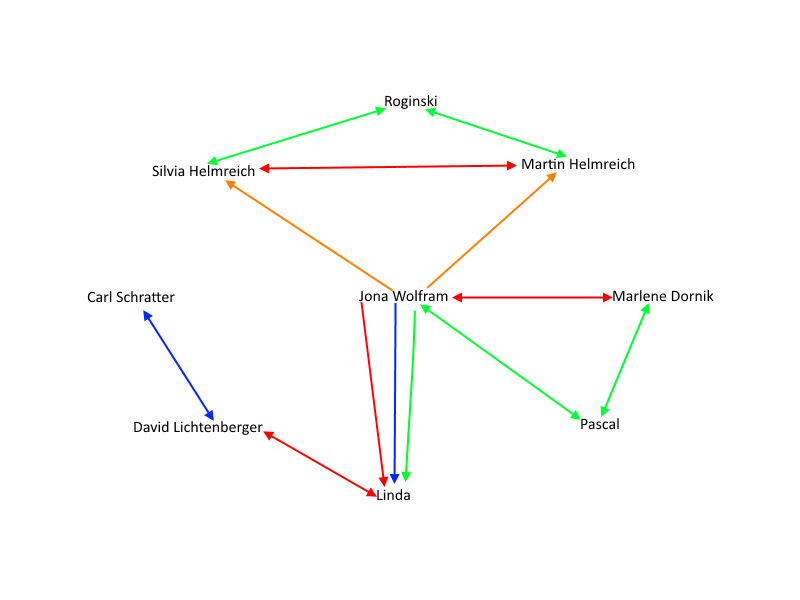
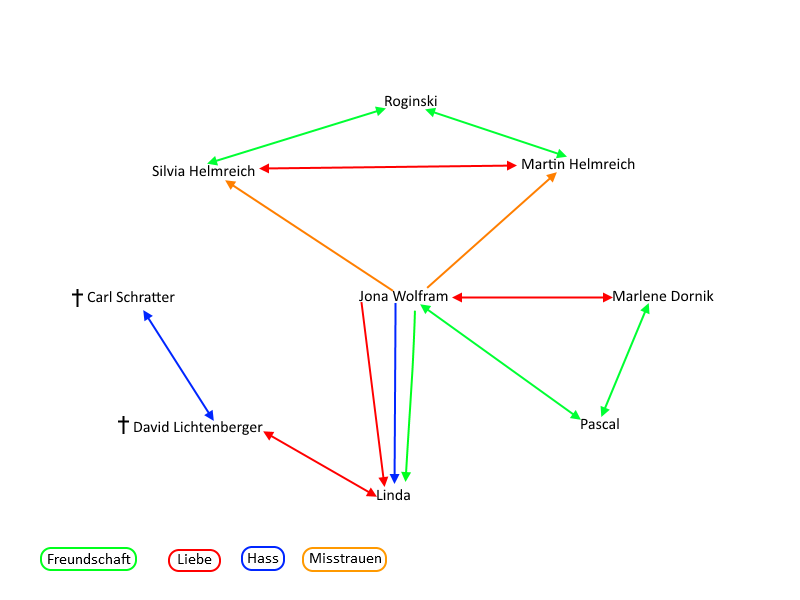
bitte figurenkonstellation!

diff --git a/allgemein.html b/allgemein.html
@@ -45,12 +45,7 @@
 	</map>
 
 
-	<a style="text-decoration: none;font-size:250%;" href="https://xnoskill.github.io/Elanus/">
-		<div class="banner">
-			Elanus
-		</div>
-	</a>
-
+	
 	
 	<map name="testmap">
 		<area shape="rect" " coords="0,250,170,0" alt="Elanus_rofl_link"
@@ -85,6 +80,13 @@ ihr mit Elanus hinterher. Doch dabei findet er etwas heraus was lieber hätte ve
 	<h3>
 		Hauptfiguren:
 	</h3>
+
+
+	
+		<div class="figurein">
+			<img src="figurenkonstellation.png" style="height:auto;" />
+		</div>
+
 
 
 

diff --git a/style.css b/style.css
@@ -557,3 +557,10 @@ div.polaroid3 {
     color: black;
     left: 35%;
 }
+
+.figurein {
+    background-color: mediumaquamarine;
+    padding: 20px;
+    width: 42%;
+    margin-left: 28%;   
+}
